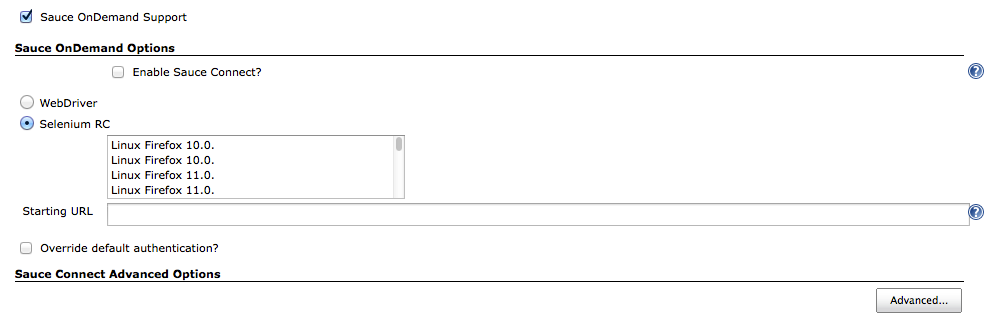
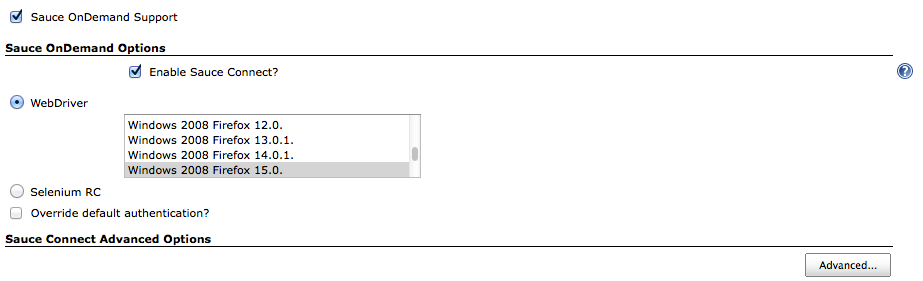
Some more tidying up

diff --git a/04-Job-Configuration.md b/04-Job-Configuration.md
@@ -1,9 +1,6 @@
 Jenkins Job Configuration
 =============
 
-Freestyle/Maven projects
----
-
 To demonstrate the Sauce plugin for Jenkins, let's create a new Jenkins Freestyle project.
 
 From the Jenkins dashboard page, click `New Job`
@@ -34,7 +31,7 @@ Select the `Enable Sauce Connect?` check box.  When selected, the Sauce plugin w
 
 Click on the `WebDriver` radio button and select a browser to run our tests against (let's pick Firefox 15 running in Windows 2008)
 
-
+![Sauce Configure](##sauce-configure.png##)
 
 Sauce OnDemand supports a wide range of browsers, but some browser combinations are only supported for SeleniumRC or WebDriver tests.  The multi-select lists beneath the `SeleniumRC` and `WebDriver` radio buttons are populated by retrieving the list of respective supported browsers via the Sauce REST API.
 

diff --git a/04-Integration-with-tests.md b/04-Integration-with-tests.md
@@ -69,4 +69,14 @@ private void printSessionId() {
         System.out.println(message);
     }
 
+Selenium Client Factory
+---
+An alternative to explicitly referencing the environment variables in your test code is to use the [Selenium Client Factory]() library.  This allows you to construct your SeleniumRC or WebDriver instances in a single line, eg.
+
+```java
+WebDriver webDriver = SeleniumFactory.createWebDriver();
+```
+
+Implementations of the library exist for [Java](https://github.com/infradna/selenium-client-factory) and [Python](http://sauceio.com/index.php/2012/01/selenium-client-factory-for-python/)
+
 * _Next_: [Multi-configuration projects](##05-Multi-configuration.md##)

diff --git a/03-Configuration.md b/03-Configuration.md
@@ -1,7 +1,7 @@
 Configuring the Jenkins Sauce OnDemand plugin
 =============
 
-After the Sauce plugin has been installed, the username and access key of the Sauce OnDemand user account must be entered.
+After the Sauce plugin has been installed, the username and access key of the Sauce OnDemand user account must be entered within the Jenkins administration interface.
 
 To configure the authentication, first click `Manage Jenkins` from the left-hand navigation pane.
 

diff --git a/05-Multi-configuration.md b/05-Multi-configuration.md
@@ -12,3 +12,5 @@ This will present a list of browser combinations that are supported by Sauce Lab
 ![WebDriver browsers](##sauce-matrix-webdriver.png##)
 
 For each selected browsers, a separate job will run when the build is invoked.  This job will include `SELENIUM_PLATFORM`, `SELENIUM_VERSION`, `SELENIUM_BROWER`, and `SELENIUM_DRIVER` system properties which will be set to the corresponding browser.
+
+* _Next_: [Troubleshooting](##07-Troubleshooting.md##)

diff --git a/07-Troubleshooting.md b/07-Troubleshooting.md
@@ -1,4 +1,4 @@
-Next steps and more information
+Troubleshooting
 ======
 
 The source code for the plugin is available from [github](https://github.com/jenkinsci/sauce-ondemand-plugin)
